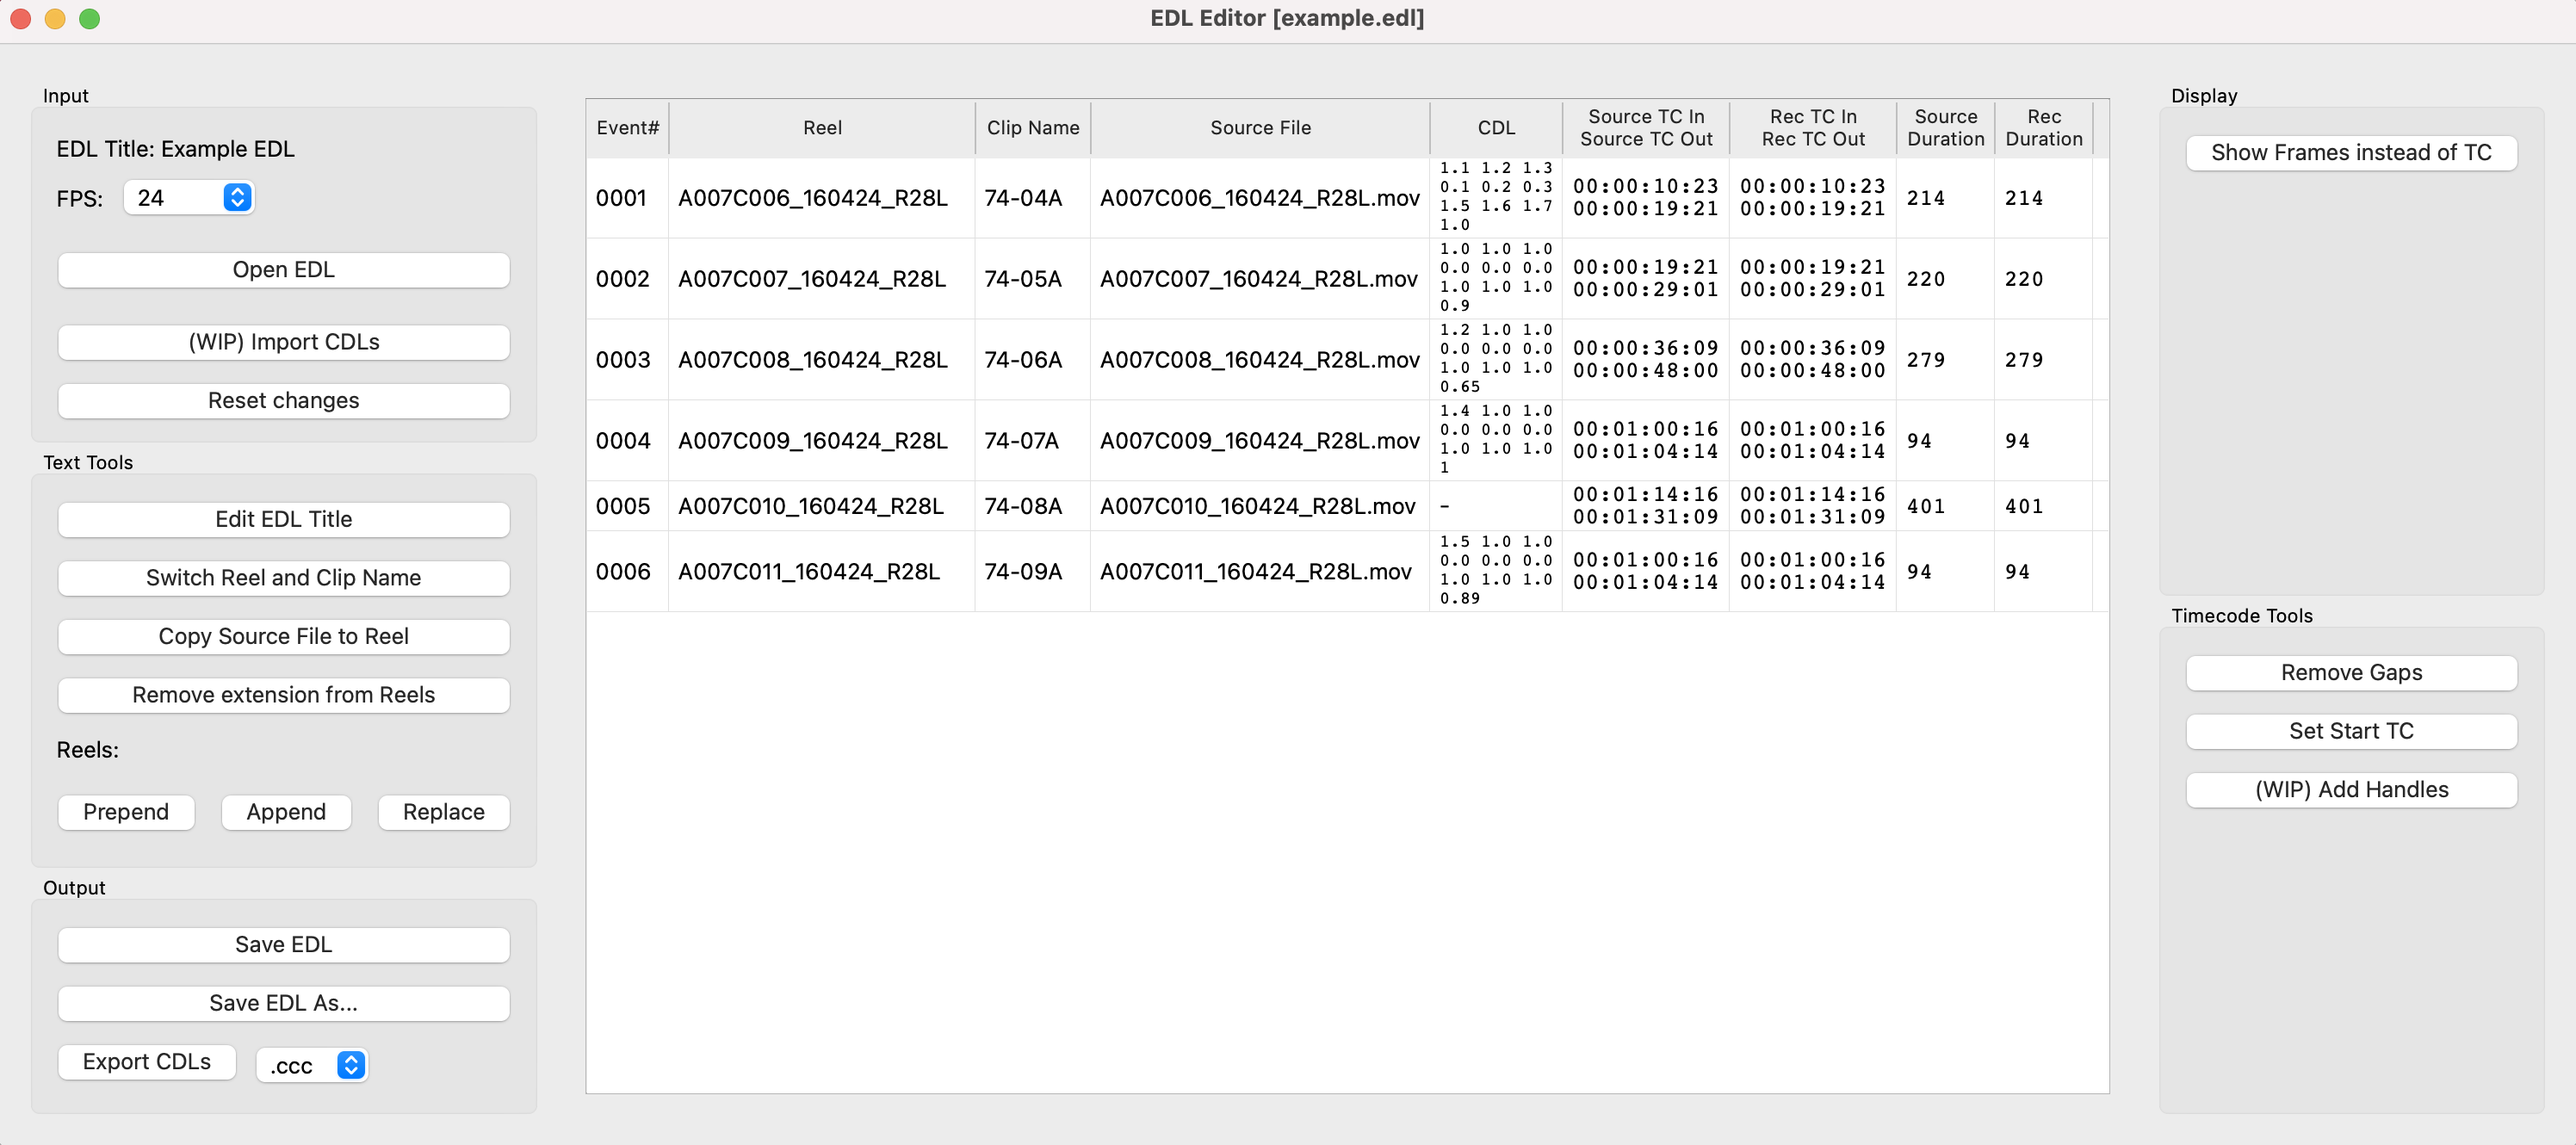
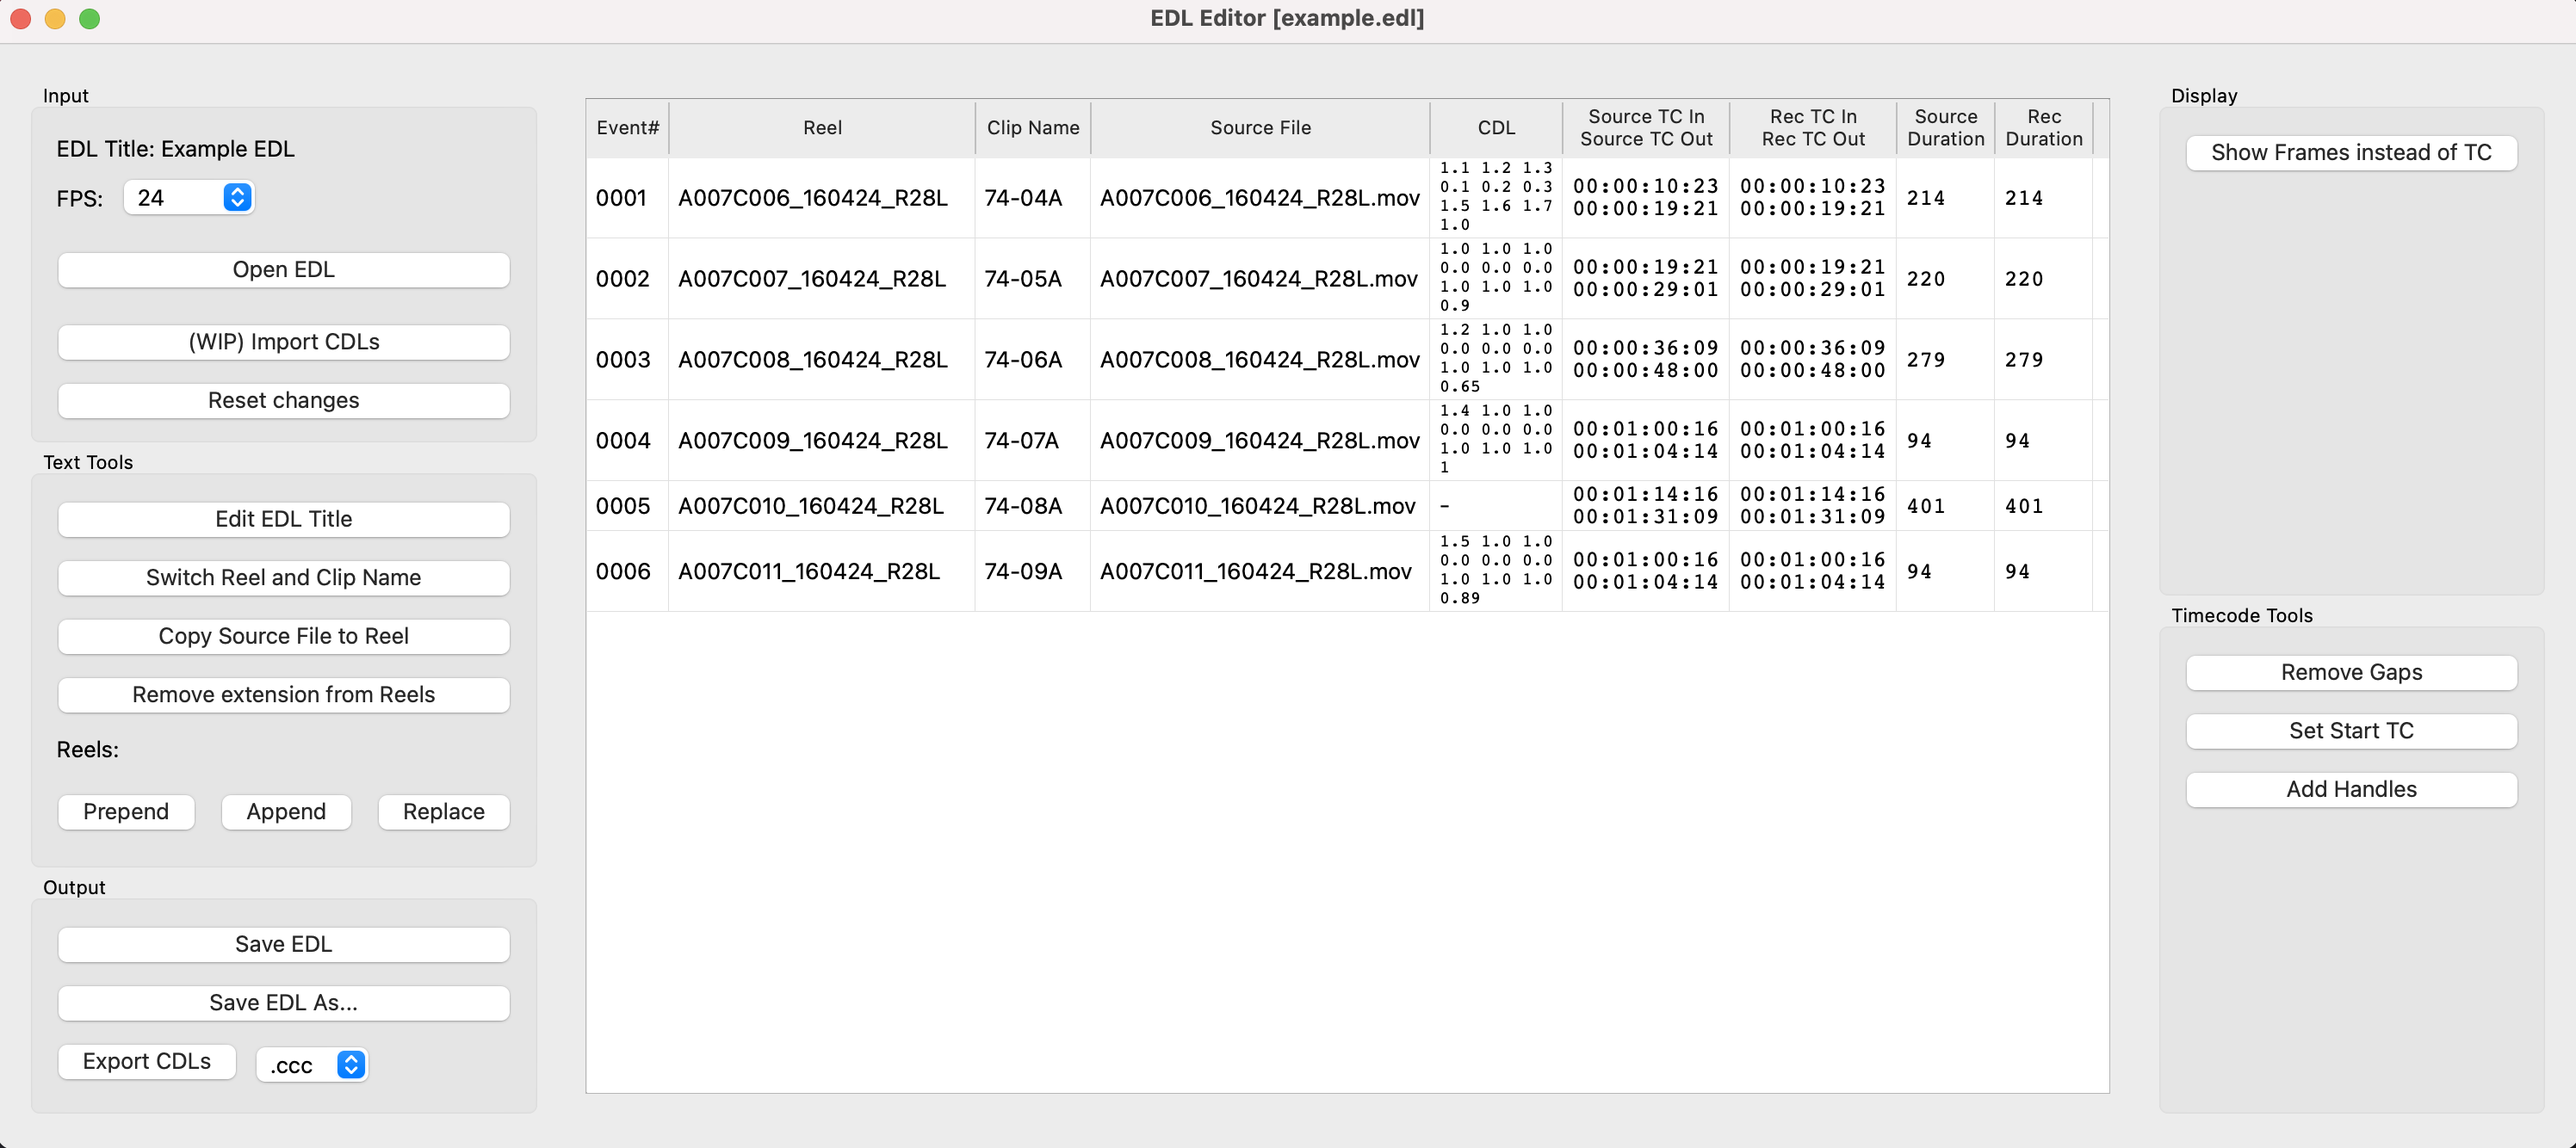
Add tc tool: add handles

diff --git a/py_edl_editor/tc_tools.py b/py_edl_editor/tc_tools.py
@@ -8,10 +8,10 @@ def remove_edl_gaps(edl):
     """Return EDL without gaps between EDL Events.
 
     Args:
-        edl (Edl): Edit Decisioon List.
+        edl (Edl): Edit Decision List.
 
     Return:
-        Edl: Edit Decision list without gaps.
+        Edl: Edit Decision List without gaps.
 
     """
     for index in range(len(edl.events) - 1):
@@ -35,11 +35,11 @@ def set_edl_start_tc(edl, start_tc):
     """Return EDL with updated start timecode.
 
     Args:
-        edl (Edl): Edit Decisioon List.
+        edl (Edl): Edit Decision List.
         start_tc (string): String representing the start of the new EDL.
 
     Return:
-        Edl: Edit Decision list with updated start timecode.
+        Edl: Edit Decision List with updated start timecode.
 
     """
     new_start_tc = tc_from_string(edl.fps, start_tc)
@@ -60,7 +60,7 @@ def tc_from_string(framerate, start_tc):
     """Convert and return string to Timecode instance.
     
     String can be either a frame number or a string in smpte timecode format 
-    (hh:mm:ss:ff).
+    like: "hh:mm:ss:ff".
 
     Args:
         framerate (string): Framerate to calculate the Timecode instance.
@@ -80,3 +80,23 @@ def tc_from_string(framerate, start_tc):
         except:
             print(f"Wrong Timcode format: {start_tc}")
     return new_start_tc
+
+
+def add_handles_to_edl(edl, handles):
+    """Return EDL with added handles.
+
+    Args:
+        edl (Edl): Edit Decision List.
+        handles (int): Number of handles to be added to each event.
+
+    Return:
+        Edl: Edit Decision List with added handles.
+    """
+    if (edl.events[0].rec_start_tc.frame_number - handles) < 0:
+        edl = set_edl_start_tc(edl, str((edl.events[0].rec_start_tc + handles)))
+    for event in edl.events:
+        event.src_start_tc = event.src_start_tc - handles
+        event.src_end_tc = event.src_end_tc + handles
+        event.rec_start_tc = event.rec_start_tc - handles
+        event.rec_end_tc = event.rec_end_tc + handles
+    return edl

diff --git a/py_edl_editor/gui_controller.py b/py_edl_editor/gui_controller.py
@@ -10,6 +10,7 @@ from PySide6 import QtWidgets
 # Import local modules
 from py_edl_editor.cdl import ccc_xml
 from py_edl_editor.edl_parser import parse_edl
+from py_edl_editor.tc_tools import add_handles_to_edl
 from py_edl_editor.tc_tools import remove_edl_gaps
 from py_edl_editor.tc_tools import set_edl_start_tc
 
@@ -198,8 +199,17 @@ class GuiController(object):
             "Start TC (either in Frame Numbers or SMPTE TC):"
         )
         if reply[1]:
-            start_tc = reply[0]
-            self.edl = set_edl_start_tc(self.edl, start_tc)
+            self.edl = set_edl_start_tc(self.edl, reply[0])
+            self._fill_edl_table()
+
+    def add_handles(self):
+        """Add handles (user input value) to all edl events."""
+        reply = QtWidgets.QInputDialog.getText(
+            None, "Add Head and Tail Handles",
+            "Number of handles:"
+        )
+        if reply[1]:
+            self.edl = add_handles_to_edl(self.edl, int(reply[0]))
             self._fill_edl_table()
 
     def _fix_event_clip_name_comment(self, event):

diff --git a/py_edl_editor/test/test_tc_calculations.py b/py_edl_editor/test/test_tc_calculations.py
@@ -8,6 +8,7 @@ from timecode import Timecode
 
 # Import local modules
 from py_edl_editor.edl_parser import parse_edl
+from py_edl_editor.tc_tools import add_handles_to_edl
 from py_edl_editor.tc_tools import remove_edl_gaps
 from py_edl_editor.tc_tools import set_edl_start_tc
 from py_edl_editor.tc_tools import tc_from_string
@@ -43,3 +44,11 @@ def test_tc_from_string_with_smpte_input():
     input = "00:00:00:10"
     expected = Timecode("24", "00:00:00:10")
     assert tc_from_string("24", input) == expected
+
+def test_add_handles_to_edl():
+    """Returns correctly calculated EDL with added handles."""
+    edl_with_gaps_path = os.path.join(DIRNAME, "files/edl_with_gaps_start0.edl")
+    handles_edl = os.path.join(DIRNAME, "files/edl_with_gaps_start0_plus_handles.edl")
+    test_edl = parse_edl(edl_with_gaps_path, "24")
+    handles_edl = parse_edl(handles_edl, "24")
+    assert handles_edl.to_string() == add_handles_to_edl(test_edl, 8).to_string()

diff --git a/py_edl_editor/gui.py b/py_edl_editor/gui.py
@@ -215,13 +215,13 @@ class PyEdlEditorApp(QtWidgets.QWidget):
         """Show the timecode tools."""
         remove_gaps_button = QtWidgets.QPushButton("Remove Gaps", self)
         set_start_tc_button = QtWidgets.QPushButton("Set Start TC", self)
-        add_handles_button = QtWidgets.QPushButton("(WIP) Add Handles", self)
+        add_handles_button = QtWidgets.QPushButton("Add Handles", self)
         self.timecode_tools_layout.addRow(remove_gaps_button)
         self.timecode_tools_layout.addRow(set_start_tc_button)
         self.timecode_tools_layout.addRow(add_handles_button)
         remove_gaps_button.clicked.connect(self.controller.remove_gaps)
         set_start_tc_button.clicked.connect(self.controller.set_start_tc)
-        # add_handles_button.clicked.connect(self.controller.add_handles)
+        add_handles_button.clicked.connect(self.controller.add_handles)
 
     def run(self, qt_app):
         """Run the QT App.
